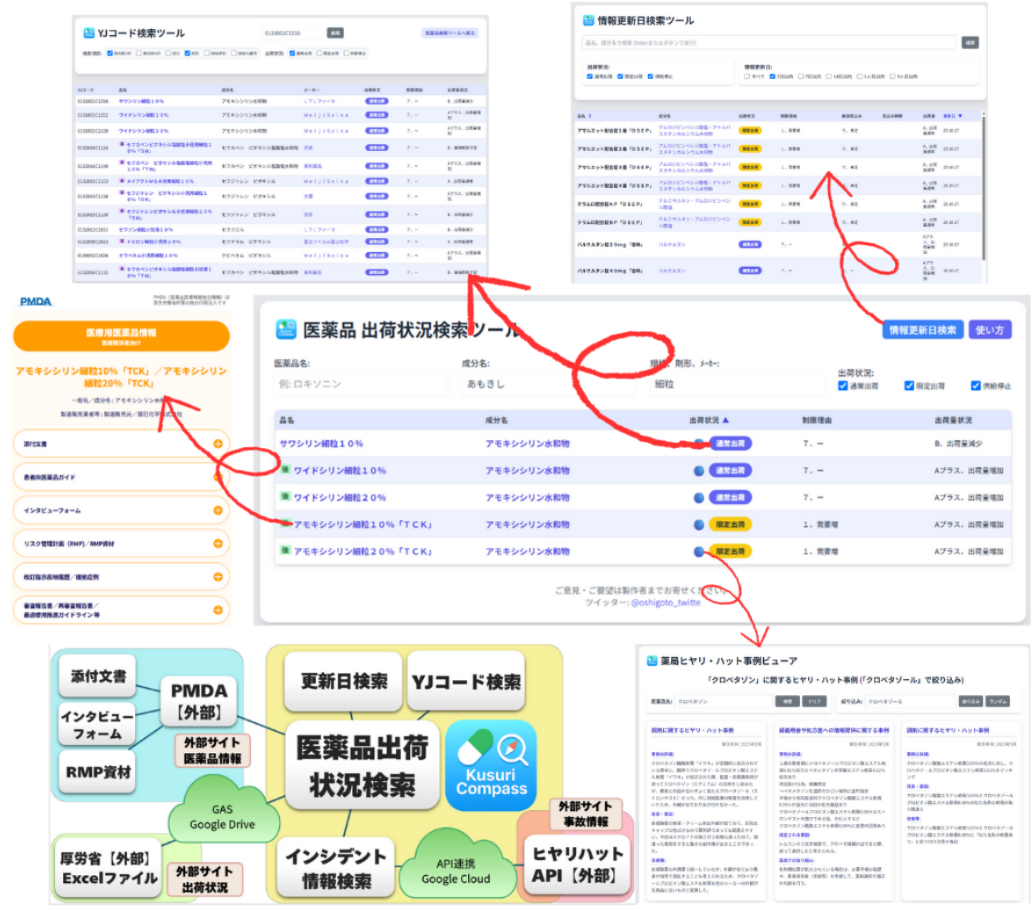
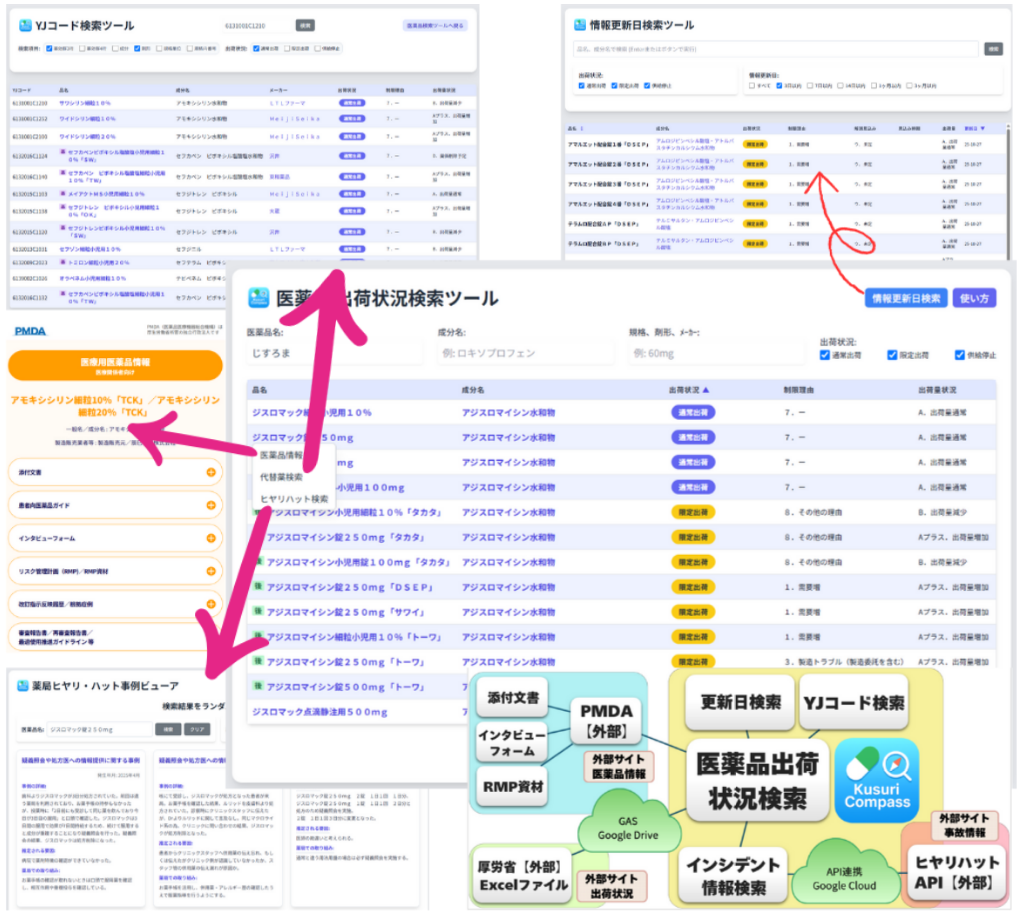
プルダウンメニュー化

diff --git a/index.html b/index.html
@@ -343,8 +343,8 @@
 
                 const drugNameCell = newRow.insertCell(0);
                 drugNameCell.setAttribute('data-label', '品名');
-                drugNameCell.classList.add("px-2", "py-2", "text-sm", "text-gray-900");
-                
+                drugNameCell.classList.add("px-2", "py-2", "text-sm", "text-gray-900", "relative");
+
                 let labelsHtml = '';
                 const hColumnValue = (item.isGeneric || '').trim();
                 const iColumnValue = (item.isBasicDrug || '').trim();
@@ -362,10 +362,37 @@
                 }
 
                 const drugName = item.productName;
-                const yjCode = item.yjCode;
-                const pmdaLinkUrl = `https://www.pmda.go.jp/PmdaSearch/rdSearch/02/${yjCode}?user=1`;
-                
-                drugNameCell.innerHTML = `<div class="flex items-start">${labelsHtml}<a href="${pmdaLinkUrl}" target="_blank" class="text-indigo-600 font-semibold hover:underline truncate-lines">${drugName || ""}</a></div>`;
+                const drugNameForHiyari = encodeURIComponent(drugName || "");
+
+                if (!item.yjCode) {
+                    drugNameCell.innerHTML = `<div class="flex items-start">${labelsHtml}<span class="font-semibold truncate-lines">${drugName || ""}</span></div>`;
+                } else {
+                    const pmdaLinkUrl = `https://www.pmda.go.jp/PmdaSearch/rdSearch/02/${item.yjCode}?user=1`;
+                    const yjCodeLinkUrl = `./yjcode.html?yjcode=${item.yjCode}`;
+                    const hiyariLinkUrl = `./hiyari_app/index.html?drugName=${drugNameForHiyari}`;
+                    const dropdownContentId = `dropdown-content-${index}`;
+
+                    const dropdownButtonHtml = `
+                        <button onclick="toggleDropdown(event)" class="dropdown-button text-indigo-600 font-semibold hover:underline truncate-lines text-left w-full">
+                            ${drugName || ""}
+                        </button>
+                    `;
+
+                    const dropdownHtml = `
+                        <div class="flex items-start">
+                            ${labelsHtml}
+                            <div class="dropdown w-full">
+                                ${dropdownButtonHtml}
+                                <div id="${dropdownContentId}" class="dropdown-content hidden absolute bg-white border border-gray-300 rounded-md shadow-lg z-10" style="min-width: 120px;">
+                                    <a href="${pmdaLinkUrl}" target="_blank" class="block px-3 py-2 text-sm text-gray-800 hover:bg-indigo-100 whitespace-nowrap">医薬品情報</a>
+                                    <a href="${yjCodeLinkUrl}" target="_blank" class="block px-3 py-2 text-sm text-gray-800 hover:bg-indigo-100 whitespace-nowrap">代替薬検索</a>
+                                    <a href="${hiyariLinkUrl}" target="_blank" class="block px-3 py-2 text-sm text-gray-800 hover:bg-indigo-100 whitespace-nowrap">ヒヤリハット検索</a>
+                                </div>
+                            </div>
+                        </div>
+                    `;
+                    drugNameCell.innerHTML = dropdownHtml;
+                }
                 
                 const ingredientNameCell = newRow.insertCell(1);
                 ingredientNameCell.setAttribute('data-label', '成分名');
@@ -380,20 +407,10 @@
                 
                 const statusCell = newRow.insertCell(2);
                 statusCell.setAttribute('data-label', '出荷状況');
-                statusCell.classList.add("tight-cell", "py-2", "text-gray-900", "text-left"); 
-                
+                statusCell.classList.add("tight-cell", "py-2", "text-gray-900", "text-left");
+
                 const statusValue = (item.shipmentStatus || '').trim();
-                const statusButtonHtml = renderStatusButton(statusValue);
-                
-                const drugNameForHiyari = encodeURIComponent(drugName || "");
-                const hiyariLink = `<a href="./hiyari_app/index.html?drugName=${drugNameForHiyari}" target="_blank" class="text-blue-500 hover:text-blue-700 mr-1 text-lg">🔵</a>`;
-                
-                if (yjCode) {
-                    const yjCodeLinkUrl = `./yjcode.html?yjcode=${yjCode}`;
-                    statusCell.innerHTML = `<div class="flex items-center justify-start">${hiyariLink}<a href="${yjCodeLinkUrl}" target="_blank" class="text-indigo-600 hover:no-underline">${statusButtonHtml}</a></div>`;
-                } else {
-                    statusCell.innerHTML = `<div class="flex items-center justify-start">${hiyariLink}${statusButtonHtml}</div>`;
-                }
+                statusCell.innerHTML = renderStatusButton(statusValue);
                 
                 const reasonCell = newRow.insertCell(3);
                 reasonCell.textContent = item.reasonForLimitation || "";
@@ -404,6 +421,22 @@
                 volumeCell.textContent = item.shipmentVolumeStatus || "";
                 volumeCell.setAttribute('data-label', '出荷量状況');
                 volumeCell.classList.add("px-2", "py-2", "text-xs", "text-gray-900");
+            });
+        }
+
+        function toggleDropdown(event) {
+            event.stopPropagation();
+            const content = event.currentTarget.nextElementSibling;
+            const isAlreadyOpen = !content.classList.contains('hidden');
+            closeAllDropdowns();
+            if (!isAlreadyOpen) {
+                content.classList.remove('hidden');
+            }
+        }
+
+        function closeAllDropdowns() {
+            document.querySelectorAll('.dropdown-content').forEach(dropdown => {
+                dropdown.classList.add('hidden');
             });
         }
         
@@ -465,6 +498,7 @@
 
         window.onload = function() {
             attachSearchListeners();
+            window.addEventListener('click', closeAllDropdowns);
 
             const fileId = '1yhDbdCbnmDoXKRSj_CuLgKkIH2ohK1LD';
             const googleDriveUrl = `https://docs.google.com/spreadsheets/d/${fileId}/export?format=xlsx`;

diff --git a/readme.html b/readme.html
@@ -69,7 +69,13 @@
                     </li>
                     <li class="bg-gray-50 p-6 rounded-2xl shadow-sm border border-gray-200">
                         <h3 class="text-xl font-semibold text-gray-900 mb-2">検索結果からの便利な操作</h3>
-                        <p>検索結果の<strong>品名</strong>をクリックすると、PMDA（医薬品医療機器総合機構）の医薬品情報ページにアクセスできます。<br><strong>出荷状況</strong>をクリックすると、該当の医薬品のYJコードから詳細情報、類似薬検索ができるページにアクセスできます。<br>また、<strong>成分名</strong>をクリックすると、検索欄がクリアされ、その成分名での検索が実行されます。</p>
+                        <p>検索結果の<strong>品名</strong>をクリックすると、便利な操作メニューが開きます。</p>
+                        <ul class="list-disc list-inside mt-2 ml-4 text-sm">
+                            <li><strong>医薬品情報:</strong> PMDA（医薬品医療機器総合機構）の医薬品情報ページにアクセスします。</li>
+                            <li><strong>代替薬検索:</strong> 該当の医薬品のYJコードを基に、代替薬候補を検索します。</li>
+                            <li><strong>ヒヤリハット検索:</strong> 該当の医薬品に関連するヒヤリ・ハット事例を検索します。</li>
+                        </ul>
+                        <p class="mt-4">また、<strong>成分名</strong>をクリックすると、検索欄がクリアされ、その成分名での検索が実行されます。</p>
                     </li>
                     <li class="bg-gray-50 p-6 rounded-2xl shadow-sm border border-gray-200">
                         <h3 class="text-xl font-semibold text-gray-900 mb-2">ソート</h3>

diff --git a/yjcode.html b/yjcode.html
@@ -47,7 +47,7 @@
                         <span class="ml-1 text-slate-700 text-xs">薬効群4桁</span>
                     </label>
                     <label class="flex items-center">
-                        <input type="checkbox" id="digits7" class="form-checkbox h-4 w-4 text-indigo-600 transition duration-150 ease-in-out" checked>
+                        <input type="checkbox" id="digits7" class="form-checkbox h-4 w-4 text-indigo-600 transition duration-150 ease-in-out">
                         <span class="ml-1 text-slate-700 text-xs">成分</span>
                     </label>
                     <label class="flex items-center">
@@ -55,7 +55,7 @@
                         <span class="ml-1 text-slate-700 text-xs">剤形</span>
                     </label>
                     <label class="flex items-center">
-                        <input type="checkbox" id="digits9" class="form-checkbox h-4 w-4 text-indigo-600 transition duration-150 ease-in-out" checked>
+                        <input type="checkbox" id="digits9" class="form-checkbox h-4 w-4 text-indigo-600 transition duration-150 ease-in-out">
                         <span class="ml-1 text-slate-700 text-xs">規格単位</span>
                     </label>
                     <label class="flex items-center">

diff --git a/unify.css b/unify.css
@@ -30,8 +30,7 @@ body {
 }
 /* 1画面の情報量を多くするための調整 */
 .table-container {
-    max-height: 70vh; /* 画面の約70%を最大高さとする */
-    overflow-y: auto;
+
 }
 /* PC画面向けレイアウト */
 .search-form-grid {
